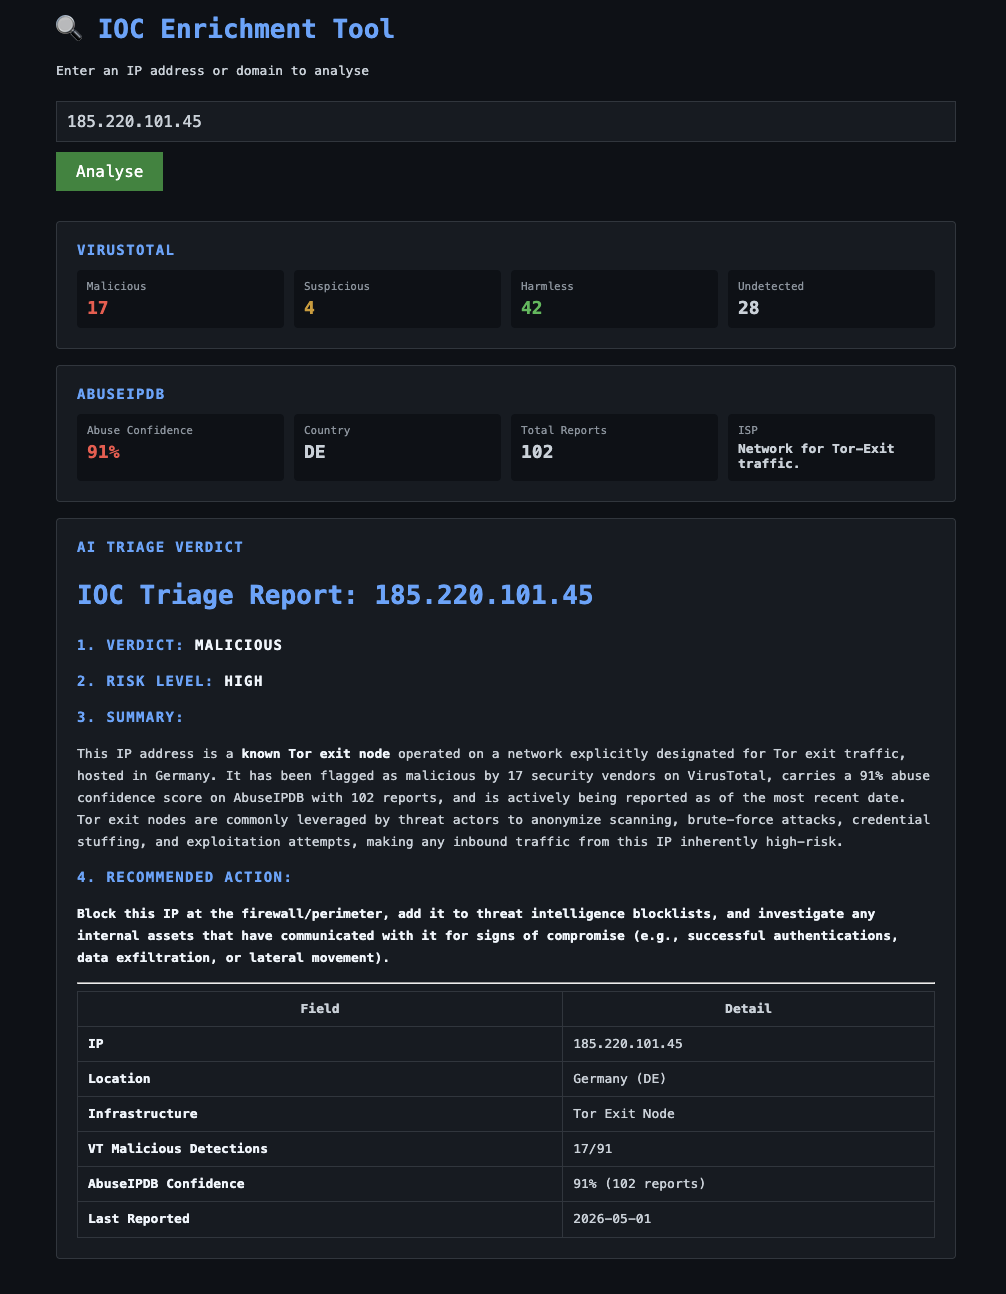
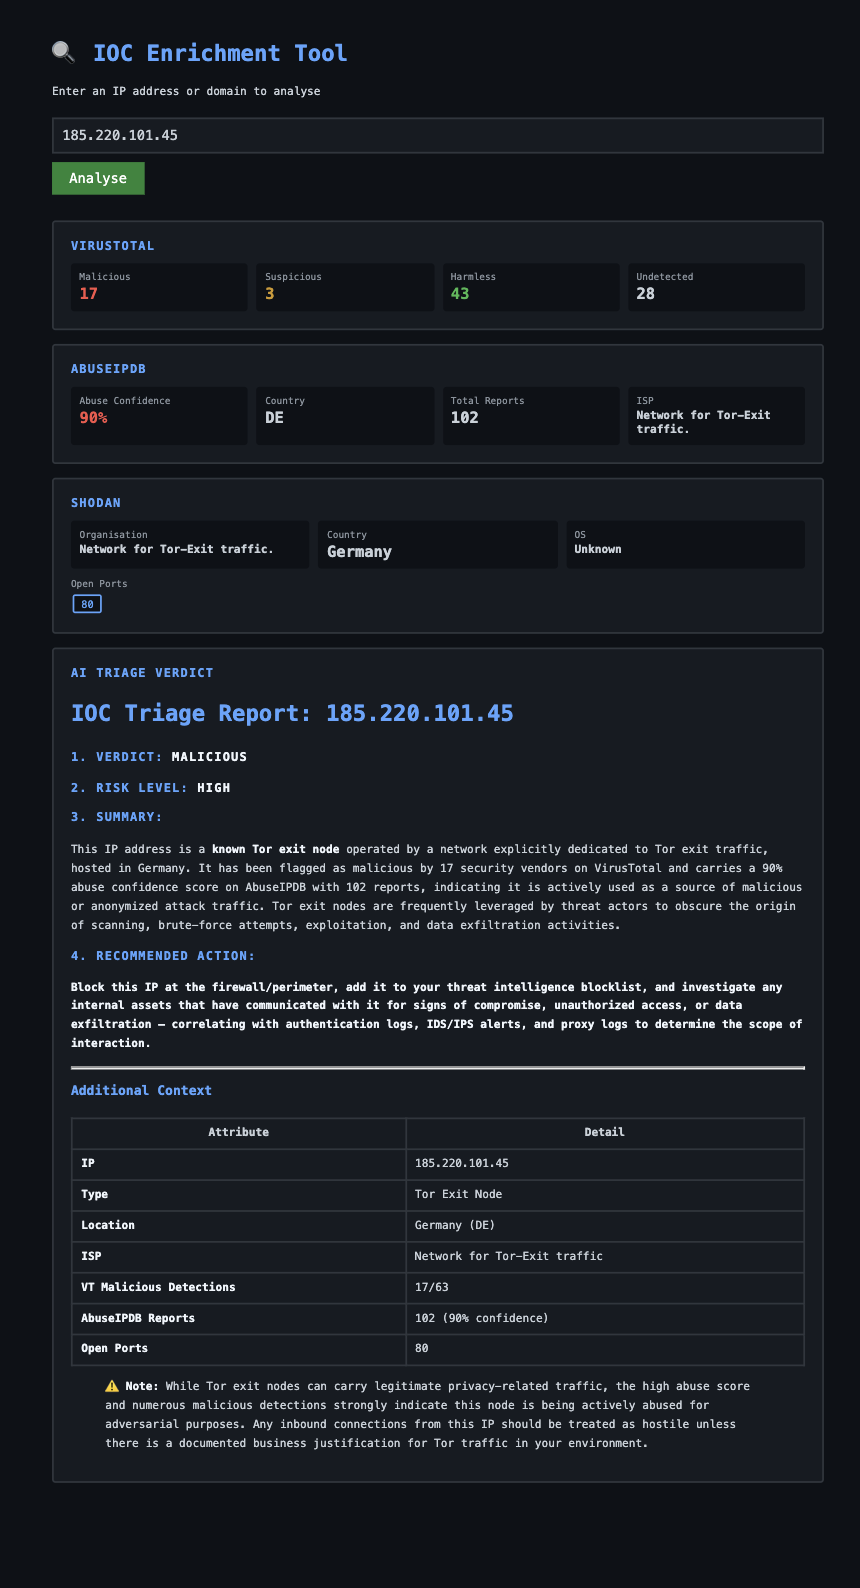
Updated README.md

diff --git a/README.md b/README.md
@@ -4,6 +4,9 @@ A web-based threat intelligence tool that automatically enriches Indicators of C
 
 Built as a practical SOC analyst tool to automate the manual process of cross-referencing multiple threat intelligence platforms.
 
+## Live Demo
+https://your-railway-url.up.railway.app
+
 ## Demo
 
 ![IOC Enrichment Tool](demo.png)
